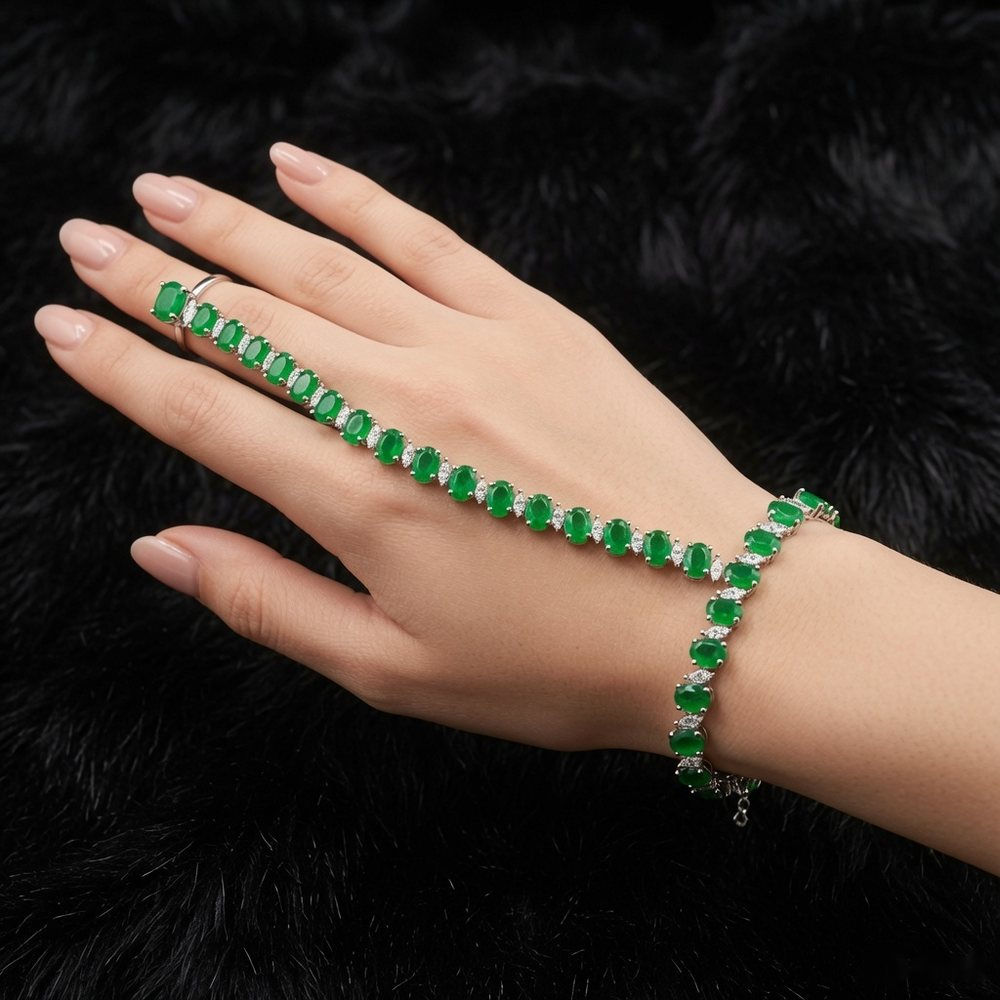
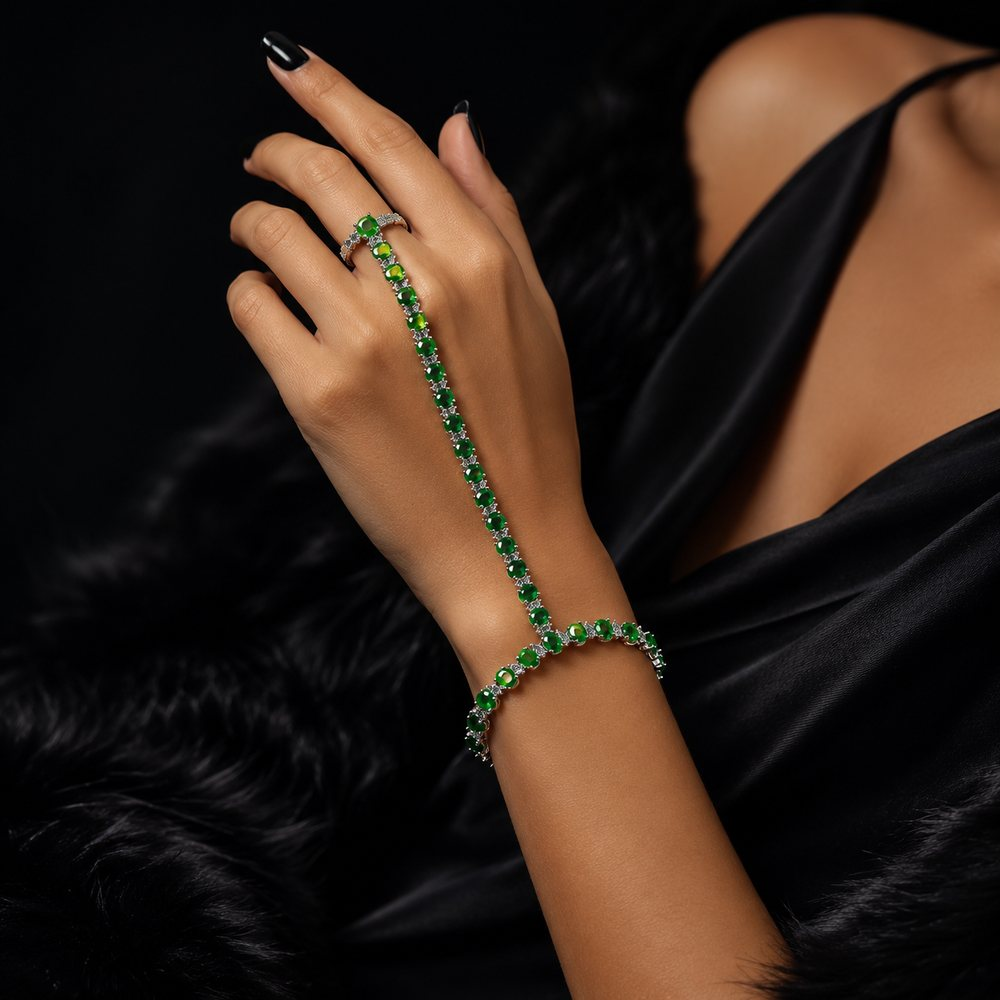
New bracelet editorial photo everywhere (mega promo + card); branded perfume flacon recomposed for collections card

diff --git a/js/webflow-render.js b/js/webflow-render.js
@@ -2,7 +2,7 @@
    edit index.html / coming-soon.html / js/script.js / js/door-module.js
    then run  python3 build-webflow-bundle.py) */
 (function(){
-var BUILD_T = 1783684982;
+var BUILD_T = 1783686223;
 
 /* run-once guard: if this same-or-newer bundle already executed (e.g. an
    old script tag left in Webflow footer code + the new head loader), the